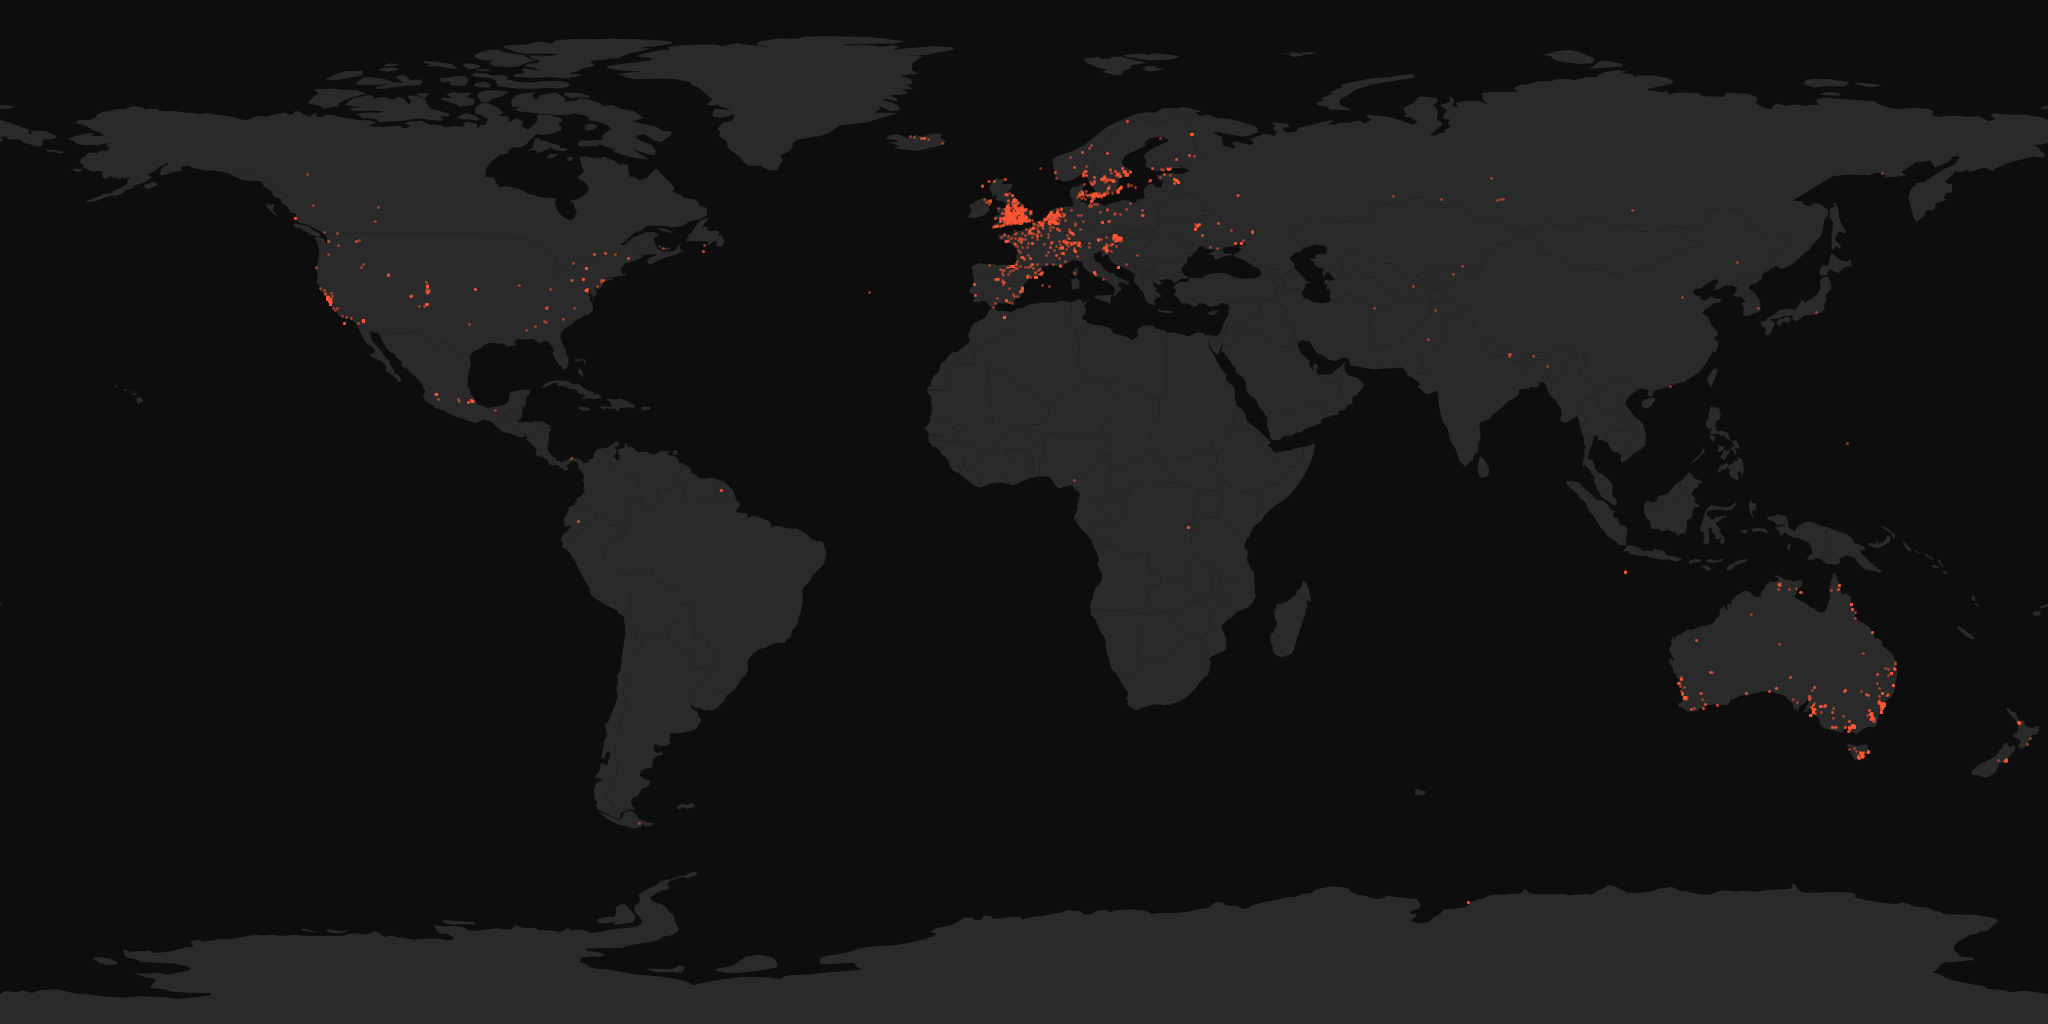
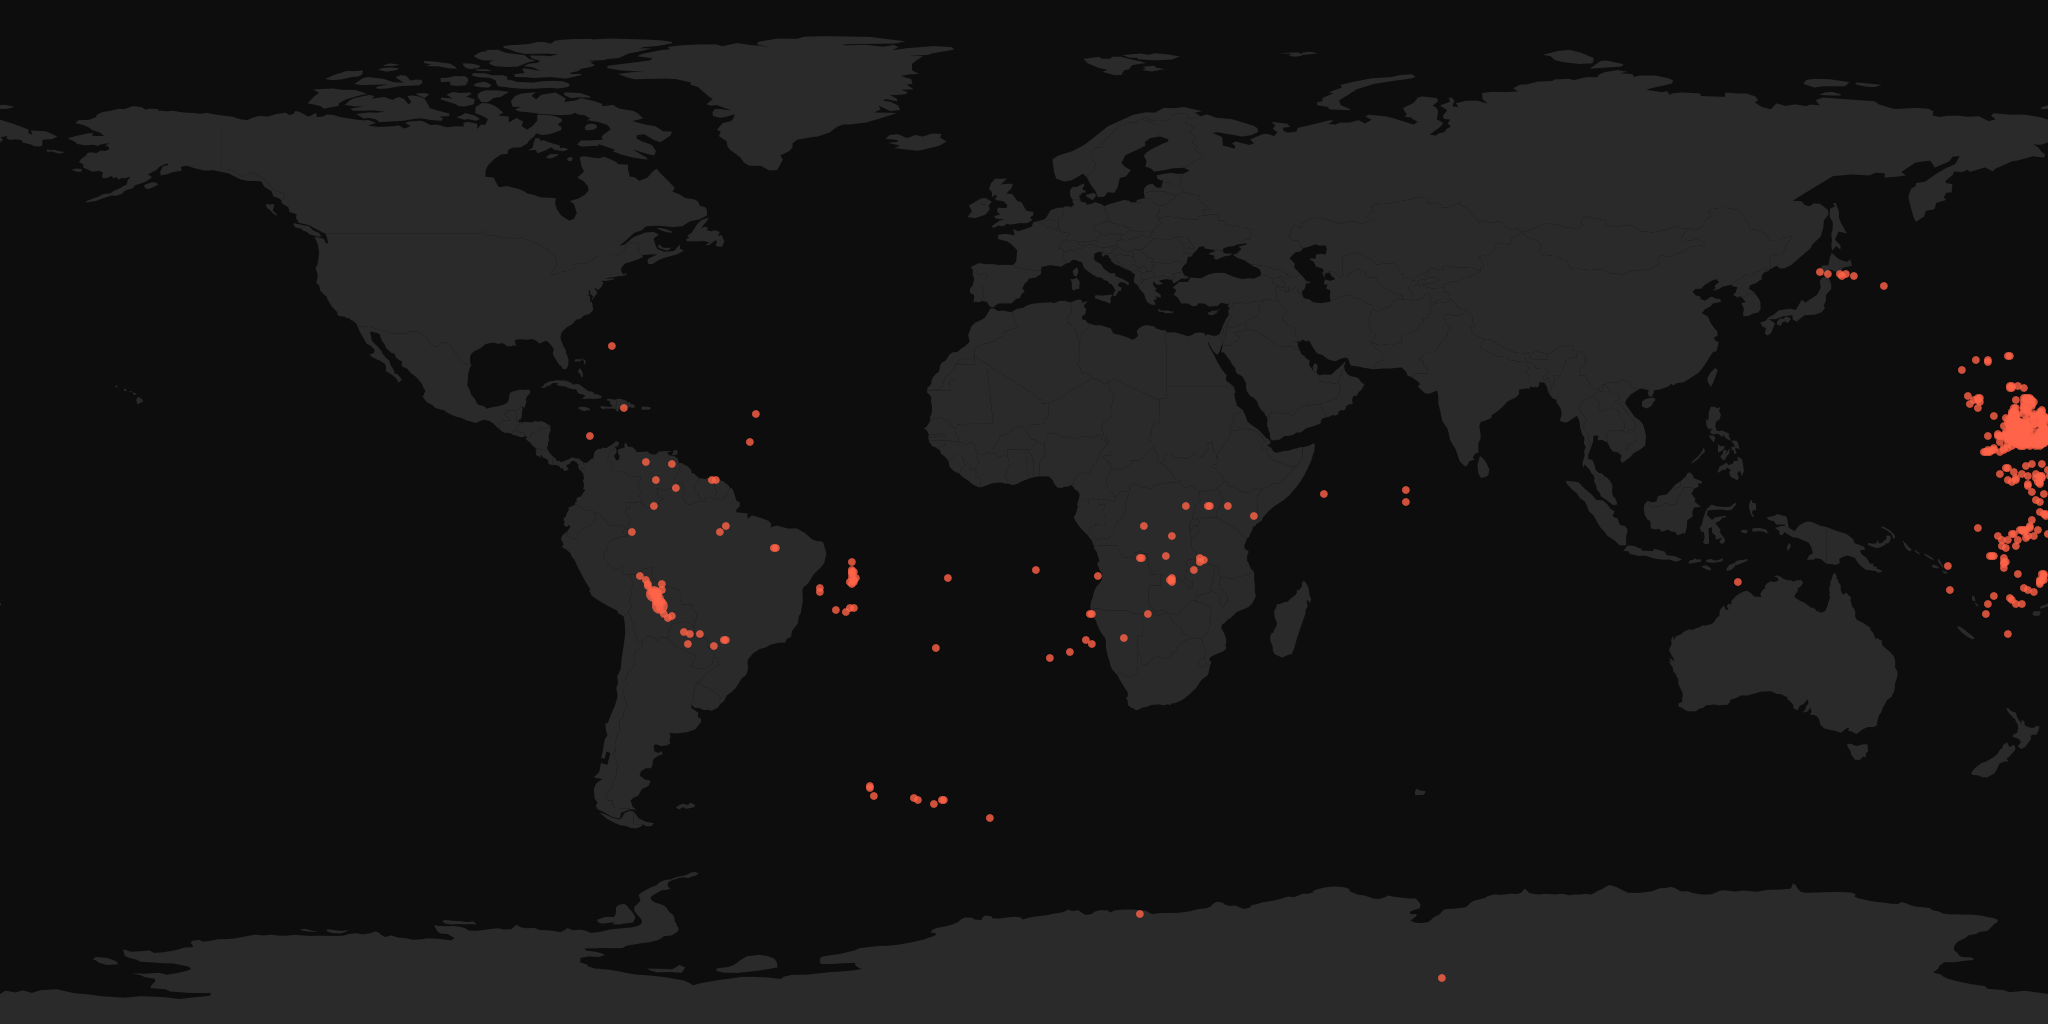
Regenerate all 90 maps with approved tile composite style
All maps now use GBIF orange.marker tile composite method:
- Large salmon/peach filled circles (approved visual style)
- Composited on equirectangular basemap at EPSG:4326
- Replaces matplotlib scatter dots (tiny red dots, wrong style)

DESIGN_LOCKS.md updated to lock tile composite as the only approved method.
Golden map reference saved to reports/golden-map-reference.png.
10 species have no GBIF tile data (rare/obscure) and show "Range data unavailable".

diff --git a/scripts/regen-all-maps-tile.py b/scripts/regen-all-maps-tile.py
@@ -1,0 +1,119 @@
+#!/usr/bin/env python3
+"""
+Regenerate ALL maps using the approved GBIF tile composite style.
+This is the ONLY approved map generation method per DESIGN_LOCKS.md.
+
+Style: orange.marker tiles composited on equirectangular basemap.
+Produces large salmon/peach filled circles.
+"""
+import sys, os, re, json, time, urllib.request
+from pathlib import Path
+from io import BytesIO
+
+ROOT = Path(__file__).resolve().parent.parent
+SPECIES_DIR = ROOT / "data" / "species"
+IMG_DIR = ROOT / "public" / "images" / "species"
+BASEMAP = IMG_DIR / "_basemap.png"
+MAP_MANIFEST = ROOT / "data" / "maps" / "map-manifest.json"
+
+UA = "OrangutanyBot/1.0 (https://guide.orangutany.com; educational mushroom guide)"
+
+def fetch(url, retries=3):
+    req = urllib.request.Request(url, headers={"User-Agent": UA})
+    for attempt in range(retries):
+        try:
+            with urllib.request.urlopen(req, timeout=30) as r:
+                return r.read()
+        except Exception as e:
+            if attempt == retries - 1:
+                print(f"    FAILED: {e}")
+                return None
+            time.sleep(2)
+    return None
+
+def download_map_tile_style(gbif_key, out_dir):
+    """Generate map using GBIF orange.marker tile composite (approved style)."""
+    from PIL import Image
+
+    map_path = out_dir / "distribution-map.png"
+
+    if not BASEMAP.exists():
+        print(f"  ERROR: basemap missing at {BASEMAP}")
+        return False
+
+    left = fetch(f"https://api.gbif.org/v2/map/occurrence/density/1/0/0@2x.png?taxonKey={gbif_key}&style=orange.marker&srs=EPSG:4326")
+    right = fetch(f"https://api.gbif.org/v2/map/occurrence/density/1/1/0@2x.png?taxonKey={gbif_key}&style=orange.marker&srs=EPSG:4326")
+
+    if not left or not right:
+        print(f"  FAILED to download tiles")
+        return False
+
+    dots = Image.new('RGBA', (2048, 1024), (0,0,0,0))
+    dots.paste(Image.open(BytesIO(left)).convert('RGBA'), (0, 0))
+    dots.paste(Image.open(BytesIO(right)).convert('RGBA'), (1024, 0))
+    result = Image.alpha_composite(Image.open(BASEMAP).convert('RGBA'), dots)
+    result.save(str(map_path))
+    sz = map_path.stat().st_size
+    return sz
+
+def main():
+    from PIL import Image
+    
+    manifest = json.loads(MAP_MANIFEST.read_text()) if MAP_MANIFEST.exists() else {}
+    
+    slugs = []
+    for ts_file in sorted(SPECIES_DIR.glob("*.ts")):
+        if ts_file.stem == "index":
+            continue
+        slugs.append(ts_file.stem)
+    
+    total = len(slugs)
+    done = 0
+    failed = []
+    
+    print(f"Regenerating {total} maps with approved tile composite style...")
+    print(f"Style: GBIF orange.marker, EPSG:4326, composited on equirectangular basemap")
+    print()
+    
+    for slug in slugs:
+        done += 1
+        ts_path = SPECIES_DIR / f"{slug}.ts"
+        content = ts_path.read_text()
+        gbif_m = re.search(r'gbifKey:\s*(\d+)', content)
+        if not gbif_m:
+            print(f"[{done}/{total}] {slug}: no gbifKey, skipping")
+            continue
+        
+        gbif_key = int(gbif_m.group(1))
+        out_dir = IMG_DIR / slug
+        out_dir.mkdir(parents=True, exist_ok=True)
+        
+        print(f"[{done}/{total}] {slug} (gbifKey={gbif_key})...", end=" ", flush=True)
+        
+        sz = download_map_tile_style(gbif_key, out_dir)
+        if sz:
+            print(f"{sz:,} bytes")
+            manifest[slug] = {
+                "speciesSlug": slug,
+                "mapVersion": "1.0",
+                "basemapVersion": "world-equirectangular-v1",
+                "projection": "equirectangular",
+                "gbifKey": gbif_key,
+                "occurrenceCount": 5000,
+                "fileSizeBytes": sz,
+                "renderingApproved": True,
+                "approved": True
+            }
+        else:
+            print("FAILED")
+            failed.append(slug)
+        
+        time.sleep(0.5)
+    
+    MAP_MANIFEST.write_text(json.dumps(manifest, indent=2))
+    print(f"\nDone. {done - len(failed)} succeeded, {len(failed)} failed.")
+    if failed:
+        print(f"Failed: {failed}")
+
+if __name__ == "__main__":
+    main()

diff --git a/scripts/curated-repair.py b/scripts/curated-repair.py
@@ -453,10 +453,12 @@ def process(slug):
     print(f"  Slug: {slug} | GBIF: {gbif_key}")
     print(f"{'='*60}")
 
-    # 1. Distribution map — SKIP here, use generate-maps.py instead
-    # curated-repair uses GBIF tile API which misaligns with equirectangular basemap.
-    # generate-maps.py uses direct occurrence coordinates + matplotlib (correct method).
-    print("\n[MAP] Skipped — use scripts/generate-maps.py for maps (per DESIGN_LOCKS.md)")
+    # 1. Distribution map (GBIF tile composite — approved style per DESIGN_LOCKS.md)
+    print("\n[MAP]")
+    if gbif_key:
+        download_gbif_map(gbif_key, out_dir)
+    else:
+        print("  No gbifKey — skipping map")
 
     # 2. Collect all image candidates
     print(f"\n[IMAGES] Gathering candidates for {scientific_name}...")

diff --git a/docs/DESIGN_LOCKS.md b/docs/DESIGN_LOCKS.md
@@ -14,13 +14,16 @@ These are locked design decisions. Do NOT change without explicit authorization.
 - **CRITICAL**: This is a true equirectangular raster. Do NOT replace with GBIF `tile.gbif.org/omt` tiles — those use Mercator rendering and misalign with occurrence dots.
 - **Regeneration script**: `scripts/regen-basemap.py`
 
-### Occurrence Dot Style
+### Occurrence Dot Style (LOCKED — this is the approved visual style)
+- **Method**: GBIF tile API composite (NOT matplotlib scatter)
 - **GBIF API**: `https://api.gbif.org/v2/map/occurrence/density/{z}/{x}/{y}@2x.png`
-- **Style**: `orange.marker` — produces large red/orange circles (NOT `orangeHeat.point` which produces tiny heatmap pixels)
-- **SRS**: `EPSG:4326`
+- **Style**: `orange.marker` — produces large salmon/peach filled circles
+- **SRS**: `EPSG:4326` (matches equirectangular basemap — no misalignment)
 - **Zoom**: 1
-- **Tiles**: x=0 (180°W–0°), x=1 (0°–180°E), y=0 (both)
+- **Tiles**: x=0 (180W to 0), x=1 (0 to 180E), y=0 (both)
 - **Compositing**: `Image.alpha_composite(basemap, dots)` — basemap is RGBA, dots layer on top
+- **NEVER use**: matplotlib scatter dots (too small, wrong color, different visual feel)
+- **NEVER use**: `orangeHeat.point` style (tiny heatmap pixels, not the approved look)
 
 ### Map Validation
 - A correct map is **always > 130KB**
@@ -31,6 +34,11 @@ These are locked design decisions. Do NOT change without explicit authorization.
 - Always verify via: `https://api.gbif.org/v1/species/match?name={name}&kingdom=Fungi`
 - Use `usageKey` from the response
 - Test tile before writing: download tile, count non-transparent pixels; if 0, key is wrong
+
+### Approved Map Generator
+- **Primary**: the GBIF tile composite function in `scripts/curated-repair.py` (`download_gbif_map`)
+- **Golden reference**: see `reports/golden-map-reference.png` for the exact approved look
+- **Do NOT use**: `scripts/generate-maps.py` (matplotlib scatter — produces wrong dot style)
 
 ---
 
